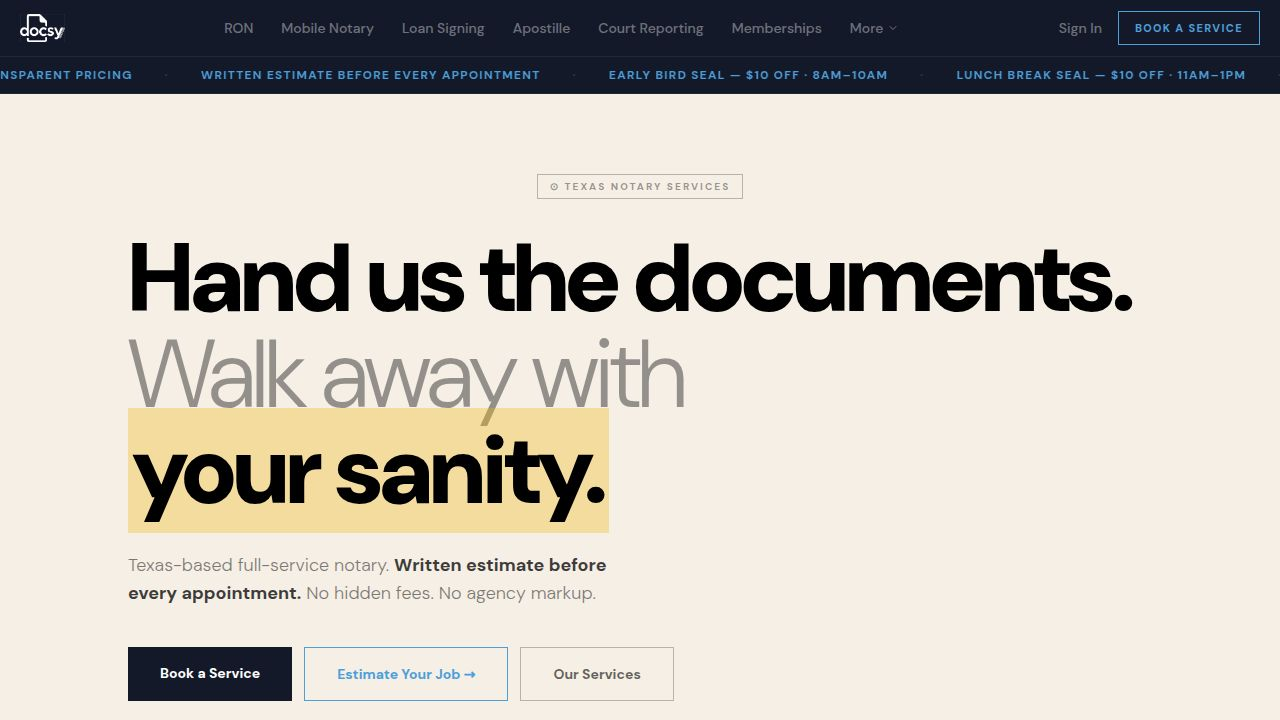
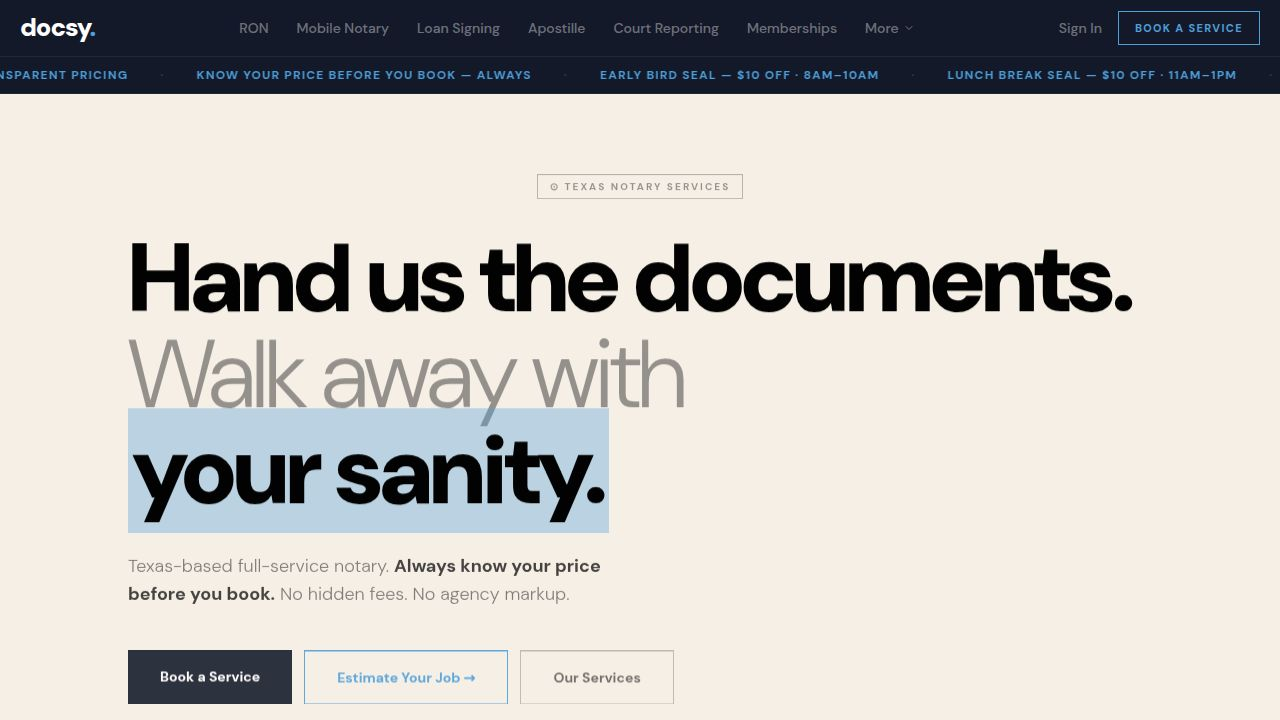
Add fade-in animations to multiple pages for a smoother user experience
Integrates the `FadeIn` component across Estimator, FAQ, HelpCenter, Login, and Verify pages to apply staggered fade-in animations to various elements, enhancing visual flow and user engagement.

Replit-Commit-Author: Agent
Replit-Commit-Session-Id: fe85a7c1-4831-4676-8f80-4d028b413fb4
Replit-Commit-Checkpoint-Type: full_checkpoint
Replit-Commit-Event-Id: 42473e89-010a-4a4d-8098-97a5a37e5ed6
Replit-Commit-Screenshot-Url: https://storage.googleapis.com/screenshot-production-us-central1/38e0da9f-c44b-412e-a958-2a9ec67cd275/fe85a7c1-4831-4676-8f80-4d028b413fb4/0RD8NJO
Replit-Helium-Checkpoint-Created: true

diff --git a/artifacts/docsy-website/src/pages/HelpCenter.tsx b/artifacts/docsy-website/src/pages/HelpCenter.tsx
@@ -1,6 +1,7 @@
 import React from "react";
 import { Link, useParams } from "wouter";
 import { ChevronLeft, Upload, ScanLine, FileCheck, Video, MapPin, Package, Globe, FileText, Receipt, HelpCircle, FileSignature } from "lucide-react";
+import { FadeIn } from "@/components/ui/FadeIn";
 
 const IVORY = "#F5EFE6";
 const BG = "#131929";
@@ -174,21 +175,27 @@ function GuideDetail({ guide }: { guide: typeof guides[0] }) {
 
       <section className="px-5 pt-14 pb-12 border-b border-[#1e2a3a]" style={{ backgroundColor: IVORY }}>
         <div className="max-w-3xl mx-auto">
-          <h1 className="text-3xl sm:text-5xl font-black leading-tight text-black mb-4" style={{ letterSpacing: "-0.02em" }}>
-            {guide.title}
-          </h1>
-          <p className="text-lg text-black/60 font-medium">{guide.summary}</p>
+          <FadeIn delay={0}>
+            <h1 className="text-3xl sm:text-5xl font-black leading-tight text-black mb-4" style={{ letterSpacing: "-0.02em" }}>
+              {guide.title}
+            </h1>
+          </FadeIn>
+          <FadeIn delay={80}>
+            <p className="text-lg text-black/60 font-medium">{guide.summary}</p>
+          </FadeIn>
         </div>
       </section>
 
       <section className="px-5 py-16">
         <div className="max-w-3xl mx-auto">
           {guide.content.map((section, i) => (
-            <div key={i} className="border-b border-[#1e2a3a] last:border-b-0 pb-10 mb-10 last:pb-0 last:mb-0">
-              <p className="text-xs font-bold uppercase tracking-widest mb-3" style={{ color: IVORY }}>STEP {String(i + 1).padStart(2, "0")}</p>
-              <h2 className="text-2xl sm:text-3xl font-black text-white mb-4" style={{ letterSpacing: "-0.02em" }}>{section.heading}</h2>
-              <p className="text-base text-white/50 leading-relaxed">{section.body}</p>
-            </div>
+            <FadeIn key={i} delay={i * 80} threshold={0.05}>
+              <div className="border-b border-[#1e2a3a] last:border-b-0 pb-10 mb-10 last:pb-0 last:mb-0">
+                <p className="text-xs font-bold uppercase tracking-widest mb-3" style={{ color: IVORY }}>STEP {String(i + 1).padStart(2, "0")}</p>
+                <h2 className="text-2xl sm:text-3xl font-black text-white mb-4" style={{ letterSpacing: "-0.02em" }}>{section.heading}</h2>
+                <p className="text-base text-white/50 leading-relaxed">{section.body}</p>
+              </div>
+            </FadeIn>
           ))}
         </div>
       </section>
@@ -208,33 +215,38 @@ export default function HelpCenter() {
 
       <section className="px-5 pt-16 pb-14 sm:pt-20 sm:pb-16" style={{ backgroundColor: IVORY }}>
         <div className="max-w-5xl mx-auto">
-          <h1 className="text-[3rem] sm:text-[4.5rem] md:text-[6rem] font-black leading-none text-black mb-8" style={{ letterSpacing: "-0.03em" }}>
-            <HI>Help Center.</HI>
-          </h1>
-          <p className="text-lg sm:text-xl text-black/60 max-w-xl font-medium">
-            Step-by-step guides for every Docsy service. Plain language. No runaround.
-          </p>
+          <FadeIn delay={0}>
+            <h1 className="text-[3rem] sm:text-[4.5rem] md:text-[6rem] font-black leading-none text-black mb-8" style={{ letterSpacing: "-0.03em" }}>
+              <HI>Help Center.</HI>
+            </h1>
+          </FadeIn>
+          <FadeIn delay={80}>
+            <p className="text-lg sm:text-xl text-black/60 max-w-xl font-medium">
+              Step-by-step guides for every Docsy service. Plain language. No runaround.
+            </p>
+          </FadeIn>
         </div>
       </section>
 
       <section className="py-16 px-5 border-t border-[#1e2a3a]">
         <div className="max-w-5xl mx-auto">
           <div className="grid grid-cols-1 md:grid-cols-2 lg:grid-cols-3 gap-px bg-[#1e2a3a]">
-            {guides.map((guide) => (
-              <Link
-                key={guide.id}
-                href={`/help-center/${guide.id}`}
-                className="group block p-8 hover:bg-white/[0.03] transition-colors"
-                style={{ backgroundColor: BG }}
-                data-testid={`guide-link-${guide.id}`}
-              >
-                <guide.icon className="h-6 w-6 mb-5 text-white/25 group-hover:text-white/50 transition-colors" />
-                <h3 className="text-base font-black text-white mb-2 leading-tight group-hover:text-white transition-colors">{guide.title}</h3>
-                <p className="text-sm text-white/35 leading-relaxed">{guide.summary}</p>
-                <p className="mt-4 text-xs font-bold uppercase tracking-widest transition-colors" style={{ color: IVORY }}>
-                  Read guide →
-                </p>
-              </Link>
+            {guides.map((guide, i) => (
+              <FadeIn key={guide.id} delay={i * 50} threshold={0.05}>
+                <Link
+                  href={`/help-center/${guide.id}`}
+                  className="group block p-8 hover:bg-white/[0.03] transition-colors h-full"
+                  style={{ backgroundColor: BG }}
+                  data-testid={`guide-link-${guide.id}`}
+                >
+                  <guide.icon className="h-6 w-6 mb-5 text-white/25 group-hover:text-white/50 transition-colors" />
+                  <h3 className="text-base font-black text-white mb-2 leading-tight group-hover:text-white transition-colors">{guide.title}</h3>
+                  <p className="text-sm text-white/35 leading-relaxed">{guide.summary}</p>
+                  <p className="mt-4 text-xs font-bold uppercase tracking-widest transition-colors" style={{ color: IVORY }}>
+                    Read guide →
+                  </p>
+                </Link>
+              </FadeIn>
             ))}
           </div>
         </div>
@@ -242,13 +254,19 @@ export default function HelpCenter() {
 
       <section className="py-20 sm:py-24 px-5 border-t border-[#1e2a3a] text-center" style={{ backgroundColor: IVORY }}>
         <div className="max-w-2xl mx-auto">
-          <h2 className="text-4xl sm:text-5xl font-black leading-tight text-black mb-4" style={{ letterSpacing: "-0.02em" }}>
-            Still have a question?
-          </h2>
-          <p className="text-lg text-black/60 mb-8">Text us. We'll tell you straight.</p>
-          <Link href="/faq" className="inline-block px-10 py-4 text-base font-bold text-white" style={{ backgroundColor: "#000" }}>
-            Browse FAQ
-          </Link>
+          <FadeIn delay={0}>
+            <h2 className="text-4xl sm:text-5xl font-black leading-tight text-black mb-4" style={{ letterSpacing: "-0.02em" }}>
+              Still have a question?
+            </h2>
+          </FadeIn>
+          <FadeIn delay={80}>
+            <p className="text-lg text-black/60 mb-8">Text us. We'll tell you straight.</p>
+          </FadeIn>
+          <FadeIn delay={160}>
+            <Link href="/faq" className="inline-block px-10 py-4 text-base font-bold text-white" style={{ backgroundColor: "#000" }}>
+              Browse FAQ
+            </Link>
+          </FadeIn>
         </div>
       </section>
 

diff --git a/artifacts/docsy-website/src/pages/FAQ.tsx b/artifacts/docsy-website/src/pages/FAQ.tsx
@@ -1,6 +1,7 @@
 import React from "react";
 import { Accordion, AccordionContent, AccordionItem, AccordionTrigger } from "@/components/ui/accordion";
 import { Link } from "wouter";
+import { FadeIn } from "@/components/ui/FadeIn";
 
 const IVORY = "#F5EFE6";
 const BG = "#131929";
@@ -64,23 +65,28 @@ export default function FAQ() {
 
       <section className="px-5 pt-16 pb-14 sm:pt-20 sm:pb-16" style={{ backgroundColor: IVORY }}>
         <div className="max-w-5xl mx-auto">
-          <h1 className="text-[3rem] sm:text-[4.5rem] md:text-[6rem] font-black leading-none text-black mb-8" style={{ letterSpacing: "-0.03em" }}>
-            The questions we
-            <br />
-            get asked every day.
-            <br />
-            <HI>Answered honestly.</HI>
-          </h1>
-          <p className="text-lg sm:text-xl text-black/60 max-w-xl font-medium">
-            Real questions. Real answers. No "please consult a professional for more information" non-answers.
-          </p>
+          <FadeIn delay={0}>
+            <h1 className="text-[3rem] sm:text-[4.5rem] md:text-[6rem] font-black leading-none text-black mb-8" style={{ letterSpacing: "-0.03em" }}>
+              The questions we
+              <br />
+              get asked every day.
+              <br />
+              <HI>Answered honestly.</HI>
+            </h1>
+          </FadeIn>
+          <FadeIn delay={80}>
+            <p className="text-lg sm:text-xl text-black/60 max-w-xl font-medium">
+              Real questions. Real answers. No "please consult a professional for more information" non-answers.
+            </p>
+          </FadeIn>
         </div>
       </section>
 
       <section className="py-16 px-5 border-t border-[#1e2a3a]">
         <div className="max-w-3xl mx-auto">
           {faqs.map((section, si) => (
-            <div key={section.category} className="mb-16">
+            <FadeIn key={section.category} delay={si * 60} threshold={0.05}>
+            <div className="mb-16">
               <p className="text-xs font-bold uppercase tracking-widest mb-6 pb-4 border-b border-[#1e2a3a]" style={{ color: IVORY }}>
                 {section.category}
               </p>
@@ -104,19 +110,26 @@ export default function FAQ() {
                 ))}
               </Accordion>
             </div>
+            </FadeIn>
           ))}
         </div>
       </section>
 
       <section className="py-20 sm:py-24 px-5 border-t border-[#1e2a3a] text-center" style={{ backgroundColor: IVORY }}>
         <div className="max-w-2xl mx-auto">
-          <h2 className="text-4xl sm:text-5xl font-black leading-tight text-black mb-4" style={{ letterSpacing: "-0.02em" }}>
-            Still have a question?
-          </h2>
-          <p className="text-lg text-black/60 mb-8">Text us. We'll tell you straight — no runaround.</p>
-          <Link href="/help-center" className="inline-block px-10 py-4 text-base font-bold text-white" style={{ backgroundColor: "#000" }}>
-            Help Center
-          </Link>
+          <FadeIn delay={0}>
+            <h2 className="text-4xl sm:text-5xl font-black leading-tight text-black mb-4" style={{ letterSpacing: "-0.02em" }}>
+              Still have a question?
+            </h2>
+          </FadeIn>
+          <FadeIn delay={80}>
+            <p className="text-lg text-black/60 mb-8">Text us. We'll tell you straight — no runaround.</p>
+          </FadeIn>
+          <FadeIn delay={160}>
+            <Link href="/help-center" className="inline-block px-10 py-4 text-base font-bold text-white" style={{ backgroundColor: "#000" }}>
+              Help Center
+            </Link>
+          </FadeIn>
         </div>
       </section>
 

diff --git a/artifacts/docsy-website/src/pages/Estimator.tsx b/artifacts/docsy-website/src/pages/Estimator.tsx
@@ -1,5 +1,6 @@
 import React, { useState, useCallback } from "react";
 import { Link, useLocation } from "wouter";
+import { FadeIn } from "@/components/ui/FadeIn";
 
 const IVORY = "#F5EFE6";
 const BG    = "#131929";
@@ -358,17 +359,21 @@ export default function Estimator() {
       {/* ── Hero ── */}
       <section className="px-5 pt-16 pb-14 sm:pt-20 sm:pb-16" style={{ backgroundColor: IVORY }}>
         <div className="max-w-5xl mx-auto">
-          <Pill text="JOB ESTIMATOR" />
-          <h1 className="text-[3rem] sm:text-[4.5rem] md:text-[6rem] leading-none text-black mb-8" style={{ letterSpacing: "-0.03em" }}>
-            <span className="font-black">Know your cost</span>
-            <br />
-            <span className="font-light text-black/45">before you</span>
-            <br />
-            <span className="font-black"><H>book.</H></span>
-          </h1>
-          <p className="text-lg sm:text-xl text-black/60 max-w-xl font-medium">
-            Select the services you need. Configure the details. We'll calculate your estimate on the spot — down to the dollar.
-          </p>
+          <FadeIn delay={0}>
+            <Pill text="JOB ESTIMATOR" />
+            <h1 className="text-[3rem] sm:text-[4.5rem] md:text-[6rem] leading-none text-black mb-8" style={{ letterSpacing: "-0.03em" }}>
+              <span className="font-black">Know your cost</span>
+              <br />
+              <span className="font-light text-black/45">before you</span>
+              <br />
+              <span className="font-black"><H>book.</H></span>
+            </h1>
+          </FadeIn>
+          <FadeIn delay={80}>
+            <p className="text-lg sm:text-xl text-black/60 max-w-xl font-medium">
+              Select the services you need. Configure the details. We'll calculate your estimate on the spot — down to the dollar.
+            </p>
+          </FadeIn>
         </div>
       </section>
 
@@ -387,6 +392,7 @@ export default function Estimator() {
               </div>
 
               {/* ── RON ── */}
+              <FadeIn delay={0} threshold={0.05}>
               <ServiceCard
                 num="01" title="Remote Online Notarization"
                 desc="Get notarized via live video in under 15 minutes. No travel. Anywhere in the US."
@@ -408,8 +414,10 @@ export default function Estimator() {
                   </div>
                 </div>
               </ServiceCard>
+              </FadeIn>
 
               {/* ── Mobile Notary ── */}
+              <FadeIn delay={60} threshold={0.05}>
               <ServiceCard
                 num="02" title="Mobile Notary"
                 desc="We come to you — home, office, hospital, hospice. 7 days, 7 AM to midnight."
@@ -477,7 +485,10 @@ export default function Estimator() {
                 </div>
               </ServiceCard>
 
+              </FadeIn>
+
               {/* ── Loan Signing ── */}
+              <FadeIn delay={120} threshold={0.05}>
               <ServiceCard
                 num="03" title="Loan Signing"
                 desc="Certified loan signing agent for refinance, buyer, seller, HELOC, and more. Flat rates."
@@ -503,7 +514,10 @@ export default function Estimator() {
                 </div>
               </ServiceCard>
 
+              </FadeIn>
+
               {/* ── Apostille ── */}
+              <FadeIn delay={180} threshold={0.05}>
               <ServiceCard
                 num="04" title="Apostille Services"
                 desc="Texas apostille filing. State fee, digital scan, and return shipping prep all included."
@@ -565,7 +579,10 @@ export default function Estimator() {
                 </div>
               </ServiceCard>
 
+              </FadeIn>
+
               {/* ── Court Reporting ── */}
+              <FadeIn delay={240} threshold={0.05}>
               <ServiceCard
                 num="05" title="Court Reporting"
                 desc="AAERT-certified digital court reporter. $4.75/page standard — below agency rates."
@@ -649,6 +666,7 @@ export default function Estimator() {
 
                 </div>
               </ServiceCard>
+              </FadeIn>
 
             </div>{/* end left col */}
 

diff --git a/artifacts/docsy-website/src/pages/Login.tsx b/artifacts/docsy-website/src/pages/Login.tsx
@@ -1,5 +1,6 @@
 import React, { useState } from "react";
 import { Link } from "wouter";
+import { FadeIn } from "@/components/ui/FadeIn";
 
 const IVORY = "#F5EFE6";
 const BG = "#131929";
@@ -14,6 +15,7 @@ export default function Login() {
 
   return (
     <div className="w-full min-h-[80vh] flex flex-col items-center justify-center px-5 py-20" style={{ backgroundColor: BG }}>
+      <FadeIn delay={0}>
       <div className="w-full max-w-md">
         <div className="mb-10 text-center">
           <div className="flex justify-center mb-6">
@@ -76,6 +78,7 @@ export default function Login() {
           to get started.
         </p>
       </div>
+      </FadeIn>
     </div>
   );
 }

diff --git a/artifacts/docsy-website/src/pages/Verify.tsx b/artifacts/docsy-website/src/pages/Verify.tsx
@@ -1,5 +1,6 @@
 import React, { useState, useRef } from "react";
 import { Link } from "wouter";
+import { FadeIn } from "@/components/ui/FadeIn";
 
 const IVORY = "#F5EFE6";
 const BG = "#131929";
@@ -36,6 +37,7 @@ export default function Verify() {
 
   return (
     <div className="w-full min-h-[80vh] flex flex-col items-center justify-center px-5 py-20" style={{ backgroundColor: BG }}>
+      <FadeIn delay={0}>
       <div className="w-full max-w-md text-center">
 
         {!verified ? (
@@ -96,6 +98,7 @@ export default function Verify() {
           </>
         )}
       </div>
+      </FadeIn>
     </div>
   );
 }